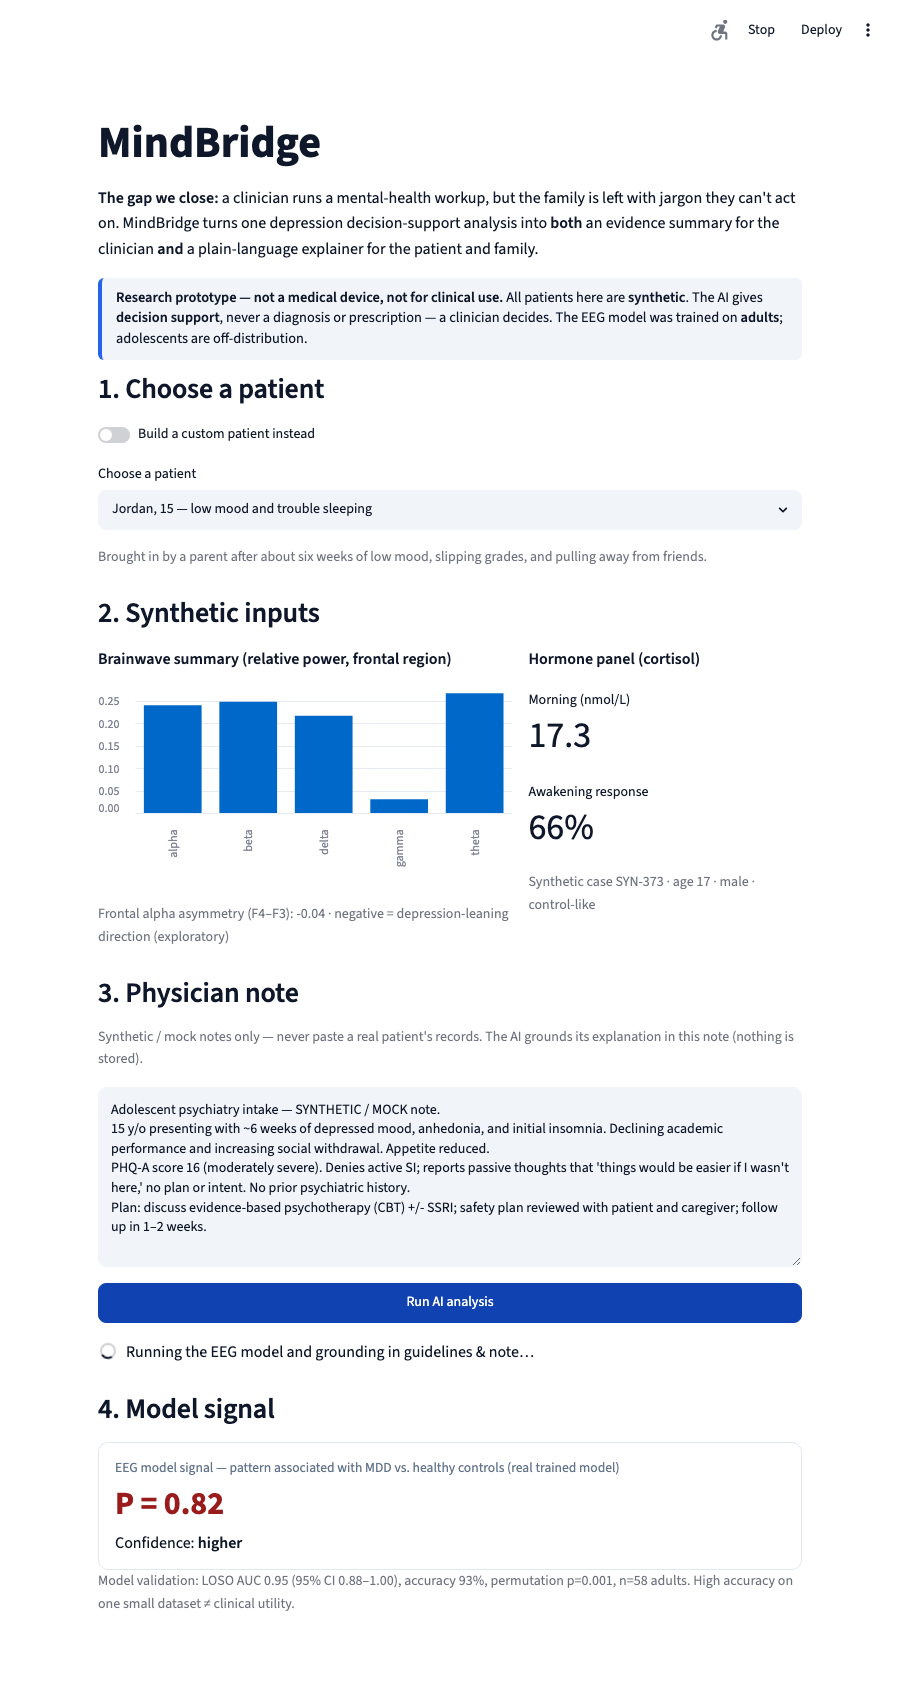
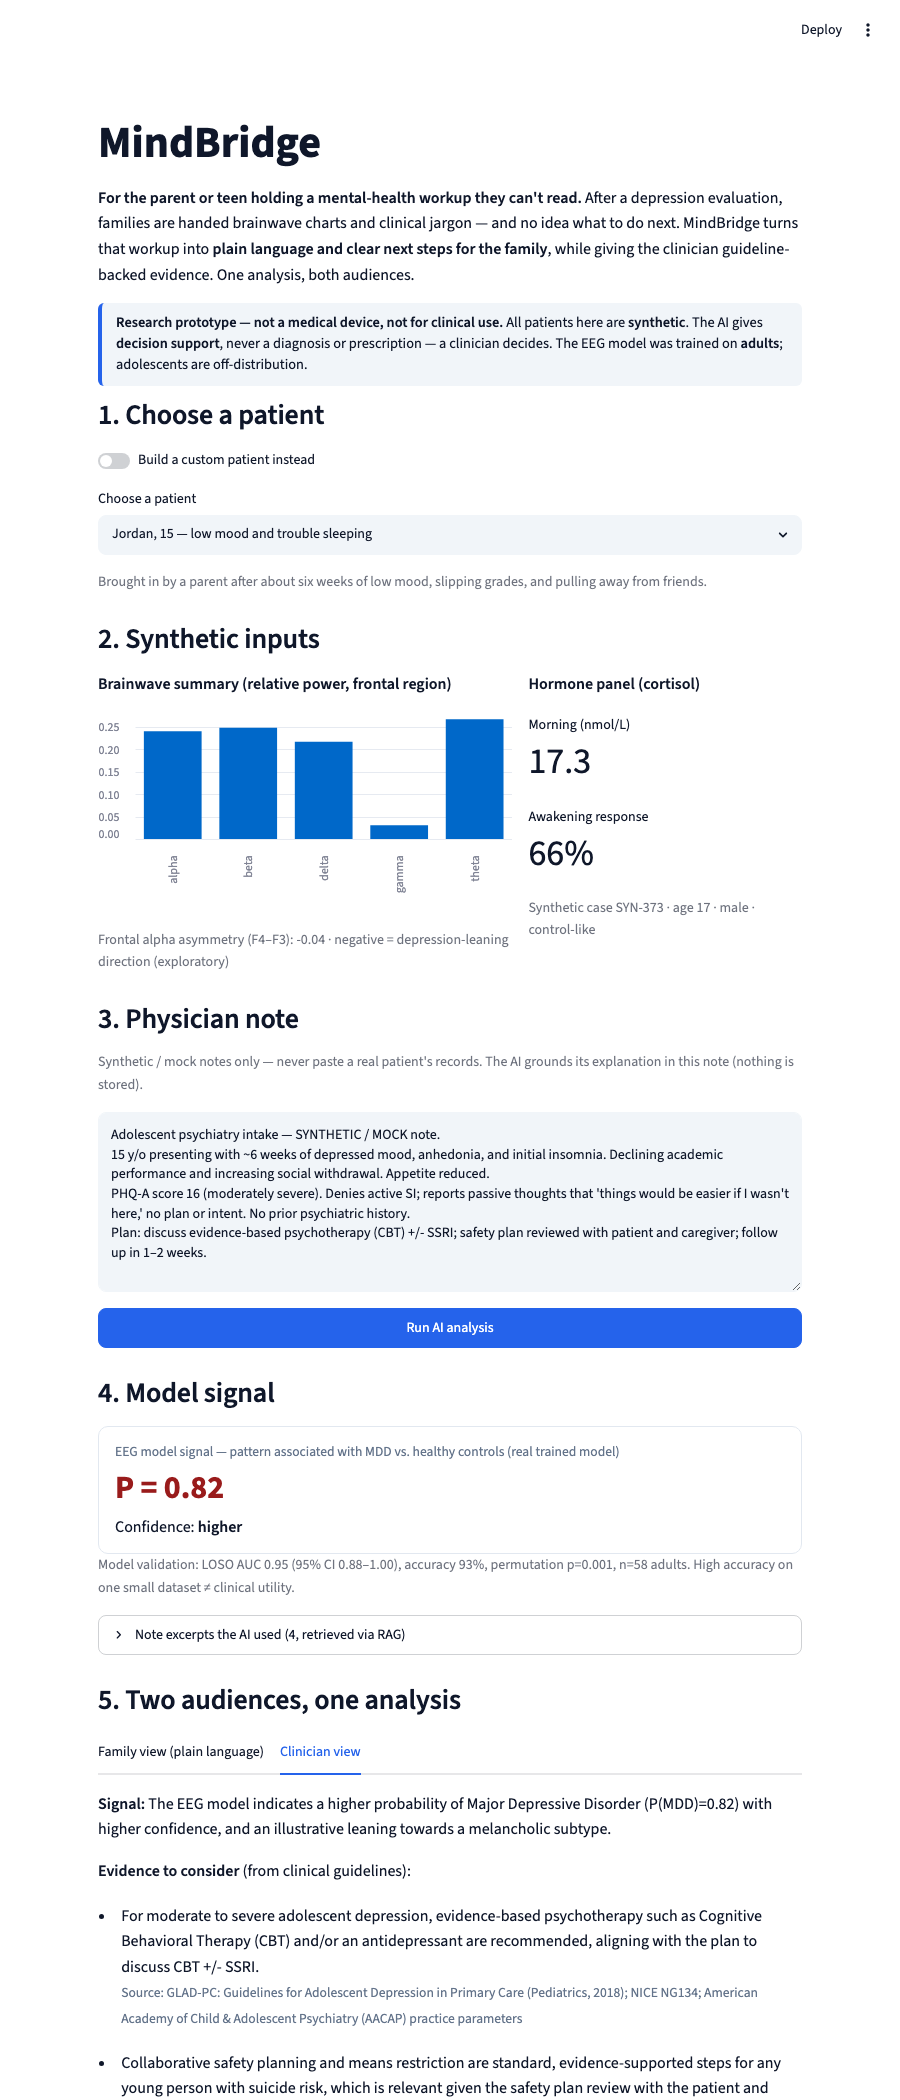
feat: lead with the family, downloadable take-home sheet, robust state
Two requested impact improvements + reliability fixes:
- Reframe to lead with the family/teen (the brief's user): new app intro centers
  the parent holding an unreadable workup; Family view is now the first/default
  tab; README hero is the family view.
- Downloadable take-home summary: a button in the family view exports the
  plain-language summary + checklist + resources + safety footer as a text file
  the family can keep/print (turns understanding into a concrete action).

Reliability (found while testing):
- Persist the analysis in st.session_state so results survive later clicks (the
  download button, checkboxes, decision log) instead of blanking the page; show
  a "click Run to refresh" hint when inputs change.
- Gemini: use transport="rest" to fix a "RuntimeError: Event loop is closed"
  raised by the gRPC asyncio client inside Streamlit's worker thread.

Verified: app serves HTTP 200, live Gemini renders both views, download button
present, event-loop error gone (0 occurrences). Screenshots regenerated.

Claude-Session: https://claude.ai/code/session_013Z9eemtKeKowv9rfq5bLrJ

Changed region(s): [[0.0933, 0.0624, 0.9022, 1.0], [0.9022, 0.0, 0.9333, 0.0312], [0.7778, 0.0, 0.8089, 0.0312]]

diff --git a/app.py b/app.py
@@ -95,7 +95,7 @@ def signal_card(result):
                 st.markdown(f"- {f}")
 
 
-def clinician_view(out, guides):
+def clinician_view(out):
     c = out["clinician"]
     st.markdown(f"**Signal:** {c['signal_summary']}")
     st.markdown("**Evidence to consider** (from clinical guidelines):")
@@ -119,12 +119,38 @@ def family_view(out, res_retriever):
     for i, s in enumerate(f["next_steps"], 1):
         st.checkbox(f"**{s['step']}**  ·  _{s['timeframe']}_", key=f"fstep_{i}")
     st.markdown("**Where to get help:**")
-    shown = set()
+    shown, resources = set(), []
     for r in res_retriever.always_show():
-        _res_card(r); shown.add(r["id"])
+        _res_card(r); shown.add(r["id"]); resources.append(r)
     for r in res_retriever.by_ids(f.get("resource_ids", [])):
         if r["id"] not in shown:
-            _res_card(r); shown.add(r["id"])
+            _res_card(r); shown.add(r["id"]); resources.append(r)
+    st.download_button(
+        "Download a take-home summary",
+        _build_takehome(f, resources),
+        file_name="mindbridge_summary.txt",
+        use_container_width=True,
+        help="A plain-language summary + checklist + resources to keep or share.",
+    )
+
+
+def _build_takehome(f, resources):
+    """Turn the family explainer into a plain-text sheet the family can keep/print —
+    understanding becomes a concrete artifact they leave with."""
+    out = ["MindBridge — Your take-home summary", "=" * 38, "",
+           "WHAT THIS MEANS", f["summary"], "", "WHAT MATTERS MOST"]
+    out += [f"- {w}" for w in f["what_matters"]]
+    out += ["", "YOUR NEXT STEPS"]
+    out += [f"[ ] {s['step']}  ({s['timeframe']})" for s in f["next_steps"]]
+    out += ["", "WHERE TO GET HELP"]
+    out += [f"- {r['name']}: {r['contact']}  {r['url']}" for r in resources]
+    out += ["",
+            "If you or someone else is in danger right now, call or text 988",
+            "(Suicide & Crisis Lifeline), or call 911.", "",
+            "This summary is for understanding only — not medical advice. Your clinician",
+            "makes the medical decisions. Generated by MindBridge (a research prototype)",
+            "from synthetic data."]
+    return "\n".join(out)
 
 
 def _res_card(r):
@@ -160,10 +186,11 @@ def main():
     st.set_page_config(page_title="MindBridge", layout="centered")
     st.title("MindBridge")
     st.markdown(
-        "**The gap we close:** a clinician runs a mental-health workup, but the family "
-        "is left with jargon they can't act on. MindBridge turns one depression "
-        "decision-support analysis into **both** an evidence summary for the clinician "
-        "**and** a plain-language explainer for the patient and family."
+        "**For the parent or teen holding a mental-health workup they can't read.** "
+        "After a depression evaluation, families are handed brainwave charts and clinical "
+        "jargon — and no idea what to do next. MindBridge turns that workup into **plain "
+        "language and clear next steps for the family**, while giving the clinician "
+        "guideline-backed evidence. One analysis, both audiences."
     )
     disclaimer()
     g_ret, r_ret = retrievers()
@@ -181,63 +208,76 @@ def main():
     note = st.text_area("Physician note", value=default_note, height=180,
                         key=f"note_{seed}_{is_demo}", label_visibility="collapsed")
 
+    run_key = (int(seed), arch, note)
     if st.button("Run AI analysis", type="primary", use_container_width=True):
         with st.spinner("Running the EEG model and grounding in guidelines & note…"):
-            st.markdown("### 4. Model signal")
-            signal_card(result)
-
             q = (f"adolescent depression treatment safety {result['confidence']} signal "
                  f"{'high' if result['p_mdd'] > 0.5 else 'low'}")
             guides = g_ret.retrieve(q, top_k=5)
             resources = r_ret.retrieve(q, top_k=5)
             note_excerpts = retrieve_note_excerpts(note, q, top_k=4) if note.strip() else []
-            note_block = "\n".join(note_excerpts)
             sig_txt = (f"P(MDD)={result['p_mdd']:.2f}, confidence={result['confidence']}, "
                        f"OOD_flags={len(result['ood_flags'])}, "
                        f"subtype_leaning(illustrative)={result['subtype_leaning']}")
             pat = result["patient"]
             pat_txt = f"age {pat['age']} {pat['sex']}, synthetic case {pat['case_id']}"
-
             try:
                 out = explain(pat_txt, sig_txt, guidelines_block(guides),
                               resources_block(resources),
                               demo_seed=int(seed) if is_demo else None,
-                              note_block=note_block)
+                              note_block="\n".join(note_excerpts))
             except NoKeyError as e:
-                st.warning(str(e)); return
+                st.warning(str(e)); st.stop()
             except Exception as e:
-                st.error(f"Analysis error: {e}"); return
+                st.error(f"Analysis error: {e}"); st.stop()
+        # Persist so the page survives later clicks (download, checkboxes, decision log).
+        st.session_state.analysis = {
+            "key": run_key, "result": result, "out": out, "note_excerpts": note_excerpts,
+        }
 
-        if out.get("mode") == "demo":
-            st.caption("Demo mode: written output is cached (no API key). The model signal is live. "
-                       "Add an API key to tailor the explanation to the note above.")
-        if note_excerpts:
-            with st.expander(f"Note excerpts the AI used ({len(note_excerpts)}, retrieved via RAG)"):
-                for ex in note_excerpts:
-                    st.markdown(f"- {ex}")
+    saved = st.session_state.get("analysis")
+    if saved and saved["key"] != run_key:
+        st.info("Inputs changed — click **Run AI analysis** to refresh the results.")
+    elif saved:
+        _render_results(saved, r_ret)
 
-        st.markdown("### 5. Two audiences, one analysis")
-        tab_c, tab_f = st.tabs(["Clinician view", "Family view (plain language)"])
-        with tab_c:
-            clinician_view(out, guides)
-        with tab_f:
-            family_view(out, r_ret)
 
-        # --- Human-in-the-loop ---
-        st.divider()
-        st.markdown("### 6. The clinician decides (human-in-the-loop)")
-        st.caption("MindBridge does not diagnose or prescribe. Record the human decision:")
-        d1, d2, d3 = st.columns(3)
-        if "log" not in st.session_state:
-            st.session_state.log = []
-        if d1.button("Reviewed — agree", use_container_width=True):
-            st.session_state.log.append(f"{pat['case_id']}: clinician agreed with support")
-        if d2.button("Override", use_container_width=True):
-            st.session_state.log.append(f"{pat['case_id']}: clinician overrode AI support")
-        if d3.button("Needs more review", use_container_width=True):
-            st.session_state.log.append(f"{pat['case_id']}: flagged for further review")
-        for entry in st.session_state.log[-5:]:
-            st.markdown(f"- {entry}")
+def _render_results(saved, r_ret):
+    result, out, note_excerpts = saved["result"], saved["out"], saved["note_excerpts"]
+
+    st.markdown("### 4. Model signal")
+    signal_card(result)
+    if out.get("mode") == "demo":
+        st.caption("Demo mode: written output is cached (no API key). The model signal is live. "
+                   "Add an API key to tailor the explanation to the note above.")
+    if note_excerpts:
+        with st.expander(f"Note excerpts the AI used ({len(note_excerpts)}, retrieved via RAG)"):
+            for ex in note_excerpts:
+                st.markdown(f"- {ex}")
+
+    st.markdown("### 5. Two audiences, one analysis")
+    tab_f, tab_c = st.tabs(["Family view (plain language)", "Clinician view"])
+    with tab_f:
+        family_view(out, r_ret)
+    with tab_c:
+        clinician_view(out)
+
+    # --- Human-in-the-loop ---
+    st.divider()
+    st.markdown("### 6. The clinician decides (human-in-the-loop)")
+    st.caption("MindBridge does not diagnose or prescribe. Record the human decision:")
+    case_id = result["patient"]["case_id"]
+    d1, d2, d3 = st.columns(3)
+    if "log" not in st.session_state:
+        st.session_state.log = []
+    if d1.button("Reviewed — agree", use_container_width=True):
+        st.session_state.log.append(f"{case_id}: clinician agreed with support")
+    if d2.button("Override", use_container_width=True):
+        st.session_state.log.append(f"{case_id}: clinician overrode AI support")
+    if d3.button("Needs more review", use_container_width=True):
+        st.session_state.log.append(f"{case_id}: flagged for further review")
+    for entry in st.session_state.log[-5:]:
+        st.markdown(f"- {entry}")
 
 
 if __name__ == "__main__":

diff --git a/llm.py b/llm.py
@@ -98,7 +98,9 @@ def _explain_live(provider, key, patient_block, signal_block, guidelines_block,
 
     elif provider == "gemini":
         import google.generativeai as genai
-        genai.configure(api_key=key)
+        # transport="rest" avoids a gRPC asyncio "Event loop is closed" error when
+        # called from Streamlit's worker thread (no persistent event loop there).
+        genai.configure(api_key=key, transport="rest")
         gm = genai.GenerativeModel(model, system_instruction=SYSTEM_PROMPT)
         resp = gm.generate_content(
             user, generation_config={"temperature": 0.2,

diff --git a/README.md b/README.md
@@ -4,7 +4,7 @@
 
 USAII Global AI Hackathon 2026 · High School track · Challenge 1: *Help is Hard to Find*
 
-![MindBridge clinician view](screenshot_clinician.png)
+![MindBridge family view](screenshot_family.png)
 
 ---
 
@@ -26,11 +26,11 @@ can act on — moving a scared family from *confusion → clarity → action.*
 You pick a (synthetic) patient. MindBridge runs a **real, trained EEG model**, grounds
 the result in **clinical guidelines (RAG)**, and produces two views of the same analysis:
 
-- **👩⚕️ Clinician view:** a calibrated, uncertainty-aware signal + guideline-cited
-  evidence to weigh + safety checks — explicitly *decision support, not a decision.*
-- **👨👩👧 Family view:** the same workup in plain 6th-grade language — what it means,
-  what matters most, a next-step checklist, and trusted support resources, with a **988
-  crisis card always on screen.**
+- **Clinician view:** a calibrated, uncertainty-aware signal + guideline-cited evidence
+  to weigh + safety checks — explicitly *decision support, not a decision.*
+- **Family view:** the same workup in plain 6th-grade language — what it means, what
+  matters most, a next-step checklist, trusted support resources (988 always included),
+  and a **downloadable take-home summary** the family can keep or print.
 
 ## Why AI — and not a pamphlet or web search
 